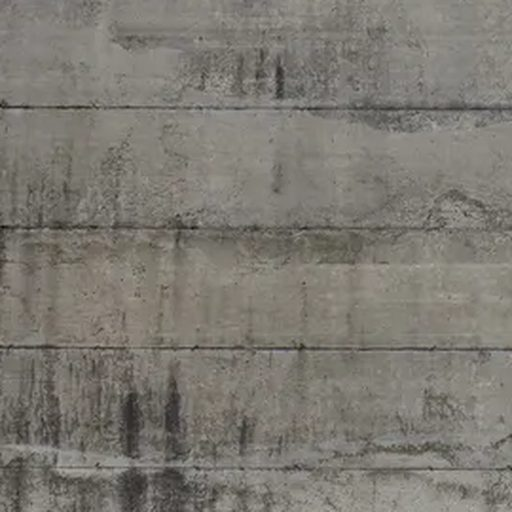
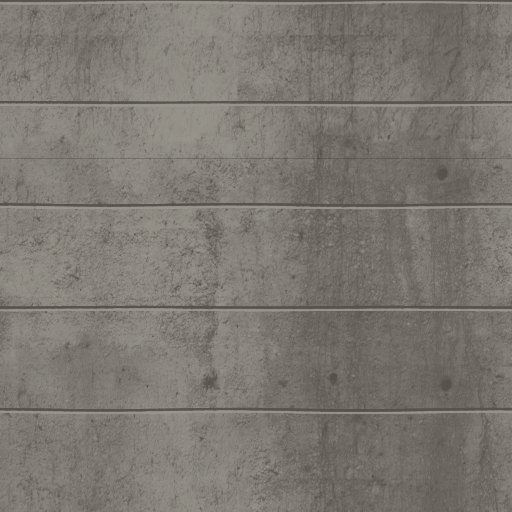
Texturen ersetzt: Beton und Boden aus CC0-Vorlagen (Poly Haven) statt Fotos unbekannter Herkunft
Die Fototexturen für Beton, Boden und Innenwände stammten aus der Vorlage-Datei ohne Herkunftsangabe. Ersetzt durch Texturen aus frei lizenzierten Vorlagen von Poly Haven (CC0, gemeinfrei):
- concrete_wall_006 (Dario Barresi, Charlotte Baglioni) als glatter Sichtbeton
- wood_textured_concrete (Dimitrios Savva) als schwache Holzmaserung der Schalung
- concrete_floor_worn_001 (Dimitrios Savva, Rico Cilliers) als Betonboden
Brettfugen dazugezeichnet, Helligkeit und Farbton an die bisherigen Texturen angeglichen; gleiche Dateinamen und Größen.
- tools/texturen.js erzeugt die Texturen (im Browser)
- Quelle [16] Poly Haven, Quelle [11] angepasst, Datenabsatz ergänzt
- README: Hinweis „Bitte vor der Veröffentlichung prüfen“ durch die Lizenzangabe ersetzt
- Cache-Version v=13

Claude-Session: https://claude.ai/code/session_01Vqac73kuQsXBmcY5kG62vk

diff --git a/index.html b/index.html
@@ -27,17 +27,17 @@
 <link rel="preload" href="assets/fonts/heros-regular.woff" as="font" type="font/woff" crossorigin>
 <link rel="preload" href="assets/fonts/pagella-bold.woff" as="font" type="font/woff" crossorigin>
 <!-- ?v= erhöhen, wenn sich CSS oder JS ändern: sonst zeigen Browser bis zu 10 Minuten lang alte Dateien -->
-<link rel="stylesheet" href="css/tokens.css?v=12">
-<link rel="stylesheet" href="css/base.css?v=12">
-<link rel="stylesheet" href="css/layout.css?v=12">
-<link rel="stylesheet" href="css/overlays.css?v=12">
+<link rel="stylesheet" href="css/tokens.css?v=13">
+<link rel="stylesheet" href="css/base.css?v=13">
+<link rel="stylesheet" href="css/layout.css?v=13">
+<link rel="stylesheet" href="css/overlays.css?v=13">
 <script type="application/ld+json">
 {"@context":"https://schema.org","@type":"WebPage","name":"La Congiunta, Giornico – interaktives 3D-Modell","inLanguage":"de",
  "about":{"@type":"Museum","name":"La Congiunta","url":"https://lacongiunta.ch/","architect":{"@type":"Person","name":"Peter Märkli"},
   "address":{"@type":"PostalAddress","addressLocality":"Giornico","addressRegion":"Tessin","addressCountry":"CH"},
   "geo":{"@type":"GeoCoordinates","latitude":46.4056231,"longitude":8.8704691}}}
 </script>
-<script src="js/loader.js?v=12" defer></script>
+<script src="js/loader.js?v=13" defer></script>
 </head>
 <body>
 <a class="skip" href="#stage">Zum 3D-Modell springen</a>
@@ -135,7 +135,7 @@
       </section>
       <section class="fsec">
       <h3>Daten und Genauigkeit</h3>
-      <p>Gelände aus den Höhenmodellen von swisstopo [7] (um das Gebäude im 3‑m‑Raster), Boden aus dem Luftbild SWISSIMAGE [7] (online lädt die Website für Dorf, Brücken und Weg feinere Kacheln mit etwa 0,2 m pro Pixel nach, ab mittlerer Qualität auch für die Umgebung), mit Feinstruktur je nach Bodenart; Häuser im Dorf entlang des Wegs (bis 200 m daneben) mit echten Grundrissen, Höhen und Dachformen aus swissBUILDINGS3D 2.0 [7], Wandfarben und Bruchsteinmauern nach Street View [10], Dachfarben aus dem Luftbild; übrige Häuser, Bahn, Straßen, Autobahnbrücken, Stromleitungen und Weinberge nach OpenStreetMap [8]. Bäume stehen dort, wo das Luftbild Baumkronen zeigt; ihre Form ist generisch. Wind und Wolken sind dargestellt, nicht gemessen: Richtung talaufwärts wie der Talwind an Sommertagen (allgemeine Wetterkunde, nicht für Giornico belegt), Wolkenform erfunden. Gebäudemaße aus Grundriss und Schnitten bei Pireddu [1], pixelgenau vermessen im Maßstab der Gesamtlänge; Gesamtlänge, Breite, Drehung (21°), Lichtgaden und Höhensprünge mit dem Gebäudemodell swissBUILDINGS3D [7] abgeglichen; lichte Raumhöhen nach [1]. Innen sind die Räume nach Peter Märkli etwa 4,6 m breit [14]; bei 5,25 m Außenbreite ergibt das Wände von rund 0,33 m. Dachaufbau, Licht, Sockel der Halbfiguren und Oblichter der Zellen nach Märklis Angaben und den Bildern im Video [14]. Innen gibt es kein direktes Sonnenlicht: Die Platten des Lichtgadens streuen das Licht, sodass kein Schatten fällt; die Helligkeit folgt Sonnenstand und Wolken. Sonnenstand für Giornico (46,41° N) mit der echten Achsdrehung und mit Bergschatten aus dem Höhenmodell; Uhrzeit = wahre Sonnenzeit [12]. In der Legende: durchgezogen = belegt, gestrichelt = angenommen.</p>
+      <p>Gelände aus den Höhenmodellen von swisstopo [7] (um das Gebäude im 3‑m‑Raster), Boden aus dem Luftbild SWISSIMAGE [7] (online lädt die Website für Dorf, Brücken und Weg feinere Kacheln mit etwa 0,2 m pro Pixel nach, ab mittlerer Qualität auch für die Umgebung), mit Feinstruktur je nach Bodenart; Häuser im Dorf entlang des Wegs (bis 200 m daneben) mit echten Grundrissen, Höhen und Dachformen aus swissBUILDINGS3D 2.0 [7], Wandfarben und Bruchsteinmauern nach Street View [10], Dachfarben aus dem Luftbild; übrige Häuser, Bahn, Straßen, Autobahnbrücken, Stromleitungen und Weinberge nach OpenStreetMap [8]. Bäume stehen dort, wo das Luftbild Baumkronen zeigt; ihre Form ist generisch. Wind und Wolken sind dargestellt, nicht gemessen: Richtung talaufwärts wie der Talwind an Sommertagen (allgemeine Wetterkunde, nicht für Giornico belegt), Wolkenform erfunden. Gebäudemaße aus Grundriss und Schnitten bei Pireddu [1], pixelgenau vermessen im Maßstab der Gesamtlänge; Gesamtlänge, Breite, Drehung (21°), Lichtgaden und Höhensprünge mit dem Gebäudemodell swissBUILDINGS3D [7] abgeglichen; lichte Raumhöhen nach [1]. Betonwände und Boden mit frei lizenzierten Texturen (CC0) [16], die Brettfugen der Schalung dazugezeichnet. Innen sind die Räume nach Peter Märkli etwa 4,6 m breit [14]; bei 5,25 m Außenbreite ergibt das Wände von rund 0,33 m. Dachaufbau, Licht, Sockel der Halbfiguren und Oblichter der Zellen nach Märklis Angaben und den Bildern im Video [14]. Innen gibt es kein direktes Sonnenlicht: Die Platten des Lichtgadens streuen das Licht, sodass kein Schatten fällt; die Helligkeit folgt Sonnenstand und Wolken. Sonnenstand für Giornico (46,41° N) mit der echten Achsdrehung und mit Bergschatten aus dem Höhenmodell; Uhrzeit = wahre Sonnenzeit [12]. In der Legende: durchgezogen = belegt, gestrichelt = angenommen.</p>
       </section>
       <section class="fsec">
       <h3>Legende</h3>
@@ -799,11 +799,12 @@
       <li>OpenStreetMap: Gebäude, Bahn, Straßen und Wege, Brücken, Stromleitungen, Weinberge, Kirchen und Gaststätten, © <a href="https://www.openstreetmap.org/copyright" target="_blank" rel="noopener">OpenStreetMap-Mitwirkende</a>, Lizenz ODbL 1.0. Abgerufen am 2.11.2026.</li>
       <li>Schweiz Tourismus: <a href="https://www.myswitzerland.com/en-us/experiences/museo-la-congiunta/" target="_blank" rel="noopener">„Museo La Congiunta“</a> (englische Fassung; drei große, miteinander verbundene Räume und vier seitliche Zellen; Skulpturen von Hans Josephsohn 1950–1990). Abgerufen am 3.11.2026.</li>
       <li>Google Maps und Street View: Fotos und Ansichten der Umgebung zur Kontrolle von Lage, Oberflächen und Dach, Verfärbungen am Beton sowie Wandfarben und Mauern im Dorf. Abgerufen am 2.11.2026.</li>
-      <li>Vorlage „La Congiunta – schematisches 3D-Modell“ (bereitgestellte HTML-Datei): Fototexturen für Beton, Boden, Innenwände und Laternenblech; Planmaße. Herkunft der Fotos dort nicht angegeben.</li>
+      <li>Vorlage „La Congiunta – schematisches 3D-Modell“ (bereitgestellte HTML-Datei): Planmaße und Fotos zum Abzählen des Trägerabstands. Die Fototexturen der Vorlage (Herkunft dort nicht angegeben) verwendet die Website nicht mehr.</li>
       <li>Technik: <a href="https://threejs.org" target="_blank" rel="noopener">three.js</a> r128 (MIT-Lizenz); Himmel nach A. J. Preetham, P. Shirley, B. Smits: „A Practical Analytic Model for Daylight“, SIGGRAPH 1999; Sonnenstand nach astronomischen Standardformeln (Deklination ±23,44°, Stundenwinkel 15° pro Stunde); Schriften TeX Gyre Heros und Pagella (GUST e-foundry, GUST Font License).</li>
       <li>Galerie Max Hetzler: <a href="https://www.maxhetzler.com/artists/hans-josephsohn" target="_blank" rel="noopener">„Hans Josephsohn“</a> (Künstlerseite: Werke in Gips geformt und in Messing gegossen, Oberflächen nur grob bearbeitet; Halbfiguren ab den 1980er Jahren; La Congiunta als „Haus für Reliefs und Halbfiguren“). Abgerufen am 3.11.2026.</li>
       <li>VernissageTV: <a href="https://www.youtube.com/watch?v=DVuXOg9W8ZM" target="_blank" rel="noopener">„Museo La Congiunta, Giornico by Peter Märkli Architect“</a>, Interview mit Peter Märkli, Zürich, 28.12.2011, zum Ehrenpreis des Velux Stiftung Tageslicht-Award 2012 (Video, 4:42; Innenbreite, Dachaufbau, Lichtgaden, Sockel der Halbfiguren, Zellen; Bilder des Innen- und Außenraums). Abgerufen am 10.11.2026.</li>
       <li>Normen für die Grundrisse: DIN 1356-1:1995-02 „Bauzeichnungen“ (Darstellung, Linienarten), DIN 406-11 (Maßeintragung), DIN EN ISO 5457 (Blattformat), DIN EN ISO 7200 (Schriftfeld), DIN EN ISO 3098 (Schrift), DIN 277 (Flächen). Die Normtexte lagen nicht vor; Linienarten, Linienbreiten und Maßeintragung nach dem Lehrskript <a href="https://epub.sub.uni-hamburg.de/epub/volltexte/2010/4886/pdf/Bauzeichnen_I.pdf" target="_blank" rel="noopener">„Bauzeichnen I“</a> (Universität Hamburg). Abgerufen am 10.11.2026.</li>
+      <li>Poly Haven: Texturen <a href="https://polyhaven.com/a/concrete_wall_006" target="_blank" rel="noopener">„Concrete Wall 006“</a> (Dario Barresi, Charlotte Baglioni), <a href="https://polyhaven.com/a/wood_textured_concrete" target="_blank" rel="noopener">„Wood Textured Concrete“</a> (Dimitrios Savva) und <a href="https://polyhaven.com/a/concrete_floor_worn_001" target="_blank" rel="noopener">„Concrete Floor Worn 001“</a> (Dimitrios Savva, Rico Cilliers), Lizenz CC0, gemeinfrei (<a href="https://polyhaven.com/license" target="_blank" rel="noopener">polyhaven.com/license</a>). Daraus die Texturen für Betonwände, Innenwände und Boden: Holzmaserung schwach, Brettfugen gezeichnet, Helligkeit angeglichen (tools/texturen.js). Abgerufen am 11.11.2026.</li>
     </ol>
   </details>
 </footer>

diff --git a/tools/texturen.js b/tools/texturen.js
@@ -1,0 +1,66 @@
+/* Texturen für Beton, Boden und Innenwände aus frei lizenzierten Vorlagen (CC0, Poly Haven), im Browser erzeugt.
+   Vorlagen (je 1k-JPG „Diffuse“ von dl.polyhaven.org, Lizenz CC0, https://polyhaven.com/license):
+     concrete_wall_006 (Dario Barresi, Charlotte Baglioni)  – glatter Sichtbeton als Grund
+     wood_textured_concrete (Dimitrios Savva)              – Holzmaserung der Schalung, nur schwach, 90° gedreht (Bretter waagrecht)
+     concrete_floor_worn_001 (Dimitrios Savva, Rico Cilliers) – Betonboden
+   Dazu gezeichnet: Brettfugen (dunkle Kante, heller Grat, leicht wellig) und Bretter mit leicht verschiedener Helligkeit.
+   Helligkeit und Farbton sind an die bisherigen Texturen angeglichen, damit das Licht im Modell gleich bleibt.
+   Aufruf in einer Seite ohne strenge CSP, z. B. auf der eigenen Website: await laTexturen() liefert {A, B, I, F} als JPEG-Blobs
+   (A, B = assets/img/tex-concrete-a/-b.jpg, I = tex-interior-wall.jpg, F = tex-floor.jpg). */
+async function laTexturen() {
+  var PH = 'https://dl.polyhaven.org/file/ph-assets/Textures/jpg/1k/';
+  function load(id) {
+    return new Promise(function (res, rej) {
+      var i = new Image(); i.crossOrigin = 'anonymous'; i.onload = function () { res(i); }; i.onerror = rej;
+      i.src = PH + id + '/' + id + '_diff_1k.jpg';
+    });
+  }
+  var IMG = { wall: await load('concrete_wall_006'), wood: await load('wood_textured_concrete'), floor: await load('concrete_floor_worn_001') };
+  function cv(w, h) { var c = document.createElement('canvas'); c.width = w; c.height = h; return c; }
+  function rot(im, deg) { var c = cv(im.width, im.height), x = c.getContext('2d'); x.translate(c.width / 2, c.height / 2); x.rotate(deg * Math.PI / 180); x.drawImage(im, -im.width / 2, -im.height / 2); return c; }
+  /* die Vorlagen sind nahtlos: nx × ny Wiederholungen mit Versatz (Anteil der Kachel) */
+  function tileInto(x, src, w, h, nx, ny, ox, oy) { var tw = w / nx, th = h / ny; for (var i = -1; i <= nx; i++) for (var j = -1; j <= ny; j++) x.drawImage(src, (i + ox) * tw, (j + oy) * th, tw, th); }
+  /* Angleichung an Mittelwert und Streuung der bisherigen Texturen: Median und Perzentile, Ausreißer weich begrenzt, Leuchtdichte treibt alle Kanäle */
+  function match(c, t, hi, lo) {
+    var x = c.getContext('2d'), d = x.getImageData(0, 0, c.width, c.height), p = d.data, n = p.length / 4, L = new Float32Array(n), i, k;
+    for (i = 0; i < n; i++) L[i] = 0.2126 * p[4 * i] + 0.7152 * p[4 * i + 1] + 0.0722 * p[4 * i + 2];
+    var s = Float32Array.from(L).sort(), q = function (f) { return s[Math.floor(f * (n - 1))]; }, med = q(0.5), sg = (q(0.84) - q(0.16)) / 2;
+    for (i = 0; i < n; i++) {
+      var z = (L[i] - med) / sg; z = z > 0 ? hi * Math.tanh(z / hi) : -lo * Math.tanh(-z / lo);
+      for (k = 0; k < 3; k++) p[4 * i + k] = Math.max(0, Math.min(255, t[0][k] + z * t[1][k]));
+    }
+    x.putImageData(d, 0, 0); return c;
+  }
+  function rnd(s) { return function () { s |= 0; s = s + 0x6D2B79F5 | 0; var t = Math.imul(s ^ s >>> 15, 1 | s); t = t + Math.imul(t ^ t >>> 7, 61 | t) ^ t; return ((t ^ t >>> 14) >>> 0) / 4294967296; }; }
+  var woodSoft = (function () { var r = rot(IMG.wood, 90), c = cv(512, 512), x = c.getContext('2d'); x.filter = 'blur(1.2px)'; x.drawImage(r, 0, 0, 512, 512); return c; })();
+  /* Schalungsbeton: ny Kacheln senkrecht, je „boards“ Bretter; grain = Anteil der Maserung, jA = Stärke der Fugen */
+  function board(w, h, ny, boards, ox, oy, grain, seed, jA) {
+    var c = cv(w, h), x = c.getContext('2d'), r = rnd(seed); x.imageSmoothingQuality = 'high';
+    tileInto(x, IMG.wall, w, h, 1, ny, ox, oy);
+    x.globalCompositeOperation = 'overlay'; x.globalAlpha = grain; tileInto(x, woodSoft, w, h, 1, ny, ox * 0.7, oy * 0.3);
+    x.globalCompositeOperation = 'source-over';
+    var nb = ny * boards, bh = h / nb, lw = Math.max(1.2, h / ny / 512 * 2.2);
+    for (var b = 0; b < nb; b++) {
+      var v = (r() - 0.5) * 0.12; x.globalAlpha = Math.abs(v); x.fillStyle = v > 0 ? '#fff' : '#000'; x.fillRect(0, b * bh, w, bh);
+      var a1 = (r() - 0.5) * 1.4, ph = r() * 6.283, y0 = b * bh, u, y;
+      x.globalAlpha = jA; x.strokeStyle = '#000'; x.lineWidth = lw; x.beginPath();
+      for (u = 0; u <= w; u += 4) { y = y0 + a1 * Math.sin(u / w * 6.283 * 2 + ph); if (u) x.lineTo(u, y); else x.moveTo(u, y); }
+      x.stroke();
+      x.globalAlpha = jA * 0.4; x.strokeStyle = '#fff'; x.lineWidth = lw * 0.8; x.beginPath();
+      for (u = 0; u <= w; u += 4) { y = y0 + lw * 1.3 + a1 * Math.sin(u / w * 6.283 * 2 + ph); if (u) x.lineTo(u, y); else x.moveTo(u, y); }
+      x.stroke();
+    }
+    x.globalAlpha = 1; return c;
+  }
+  function floorTex() { var c = cv(512, 512), x = c.getContext('2d'); x.imageSmoothingQuality = 'high'; tileInto(x, IMG.floor, 512, 512, 1, 1, 0, 0); return c; }
+  var out = {
+    A: match(board(512, 512, 1, 5, 0, 0, 0.12, 11, 0.6), [[126.2, 124.6, 120.5], [17.7, 17.5, 17.7]], 1.8, 2.6),
+    B: match(board(512, 512, 1, 5, 0.5, 0.31, 0.12, 23, 0.6), [[124.6, 121.2, 113.8], [15.2, 15.3, 15.1]], 1.8, 2.6),
+    I: match(board(256, 448, 2, 4, 0.25, 0, 0.1, 37, 0.5), [[166, 165, 158], [8, 8.5, 9.5]], 1.6, 2.4),
+    F: match(floorTex(), [[176.8, 166.8, 158.3], [13.9, 13.8, 14.8]], 1.5, 2.2)
+  };
+  var res = {};
+  for (var key in out) res[key] = await new Promise(function (r) { out[key].toBlob(r, 'image/jpeg', 0.86); });
+  return res;
+}
+if (typeof module !== 'undefined' && module.exports) module.exports = laTexturen;

diff --git a/README.md b/README.md
@@ -74,6 +74,7 @@ assets/fonts/         TeX Gyre Heros und Pagella (GUST Font License)
 assets/plans/         Grundrisse als SVG (Blatt A3, M 1:200), gezeichnet von Claude (KI)
 tools/build_standalone.py   baut alles zu einer einzigen HTML-Datei zusammen
 tools/grundrisse.js   zeichnet die Grundrisse (SVG) aus den Modellmaßen: node tools/grundrisse.js assets/plans/la-congiunta-grundrisse.svg
+tools/texturen.js     erzeugt die Beton- und Bodentexturen aus CC0-Vorlagen (im Browser)
 ```
 
 Die App-Dateien teilen sich einen gemeinsamen Bereich (wie früher innerhalb einer Funktion) und laufen in der Reihenfolge, die `js/loader.js` in `APP` festlegt. Eine neue Datei wird dort an der passenden Stelle eingetragen.
@@ -153,7 +154,7 @@ Die vollständige Quellenliste steht in der Seite unter „Quellen“. Wichtig f
 - three.js: MIT-Lizenz.
 - Schriften TeX Gyre Heros und Pagella: GUST Font License (siehe `assets/fonts/`).
 - Pläne und Angaben nach A. Pireddu, „Peter Märkli – La Congiunta“, *Firenze Architettura* 29 (2025), doi:10.36253/FiA-16824 (CC BY-SA 4.0); im Modell nur zitiert und nachgezeichnet.
-- **Bitte vor der Veröffentlichung prüfen:** Die Fototexturen für Beton, Boden und Innenwände stammen aus der Vorlage-Datei „La Congiunta – schematisches 3D-Modell“; ihre Herkunft ist dort nicht angegeben. Vor einer öffentlichen Website sollten die Rechte daran geklärt oder die Texturen durch eigene Fotos bzw. frei lizenzierte (z. B. CC0) Texturen ersetzt werden.
+- Texturen für Betonwände, Innenwände und Boden: aus frei lizenzierten Vorlagen von Poly Haven (CC0, gemeinfrei, keine Namensnennung nötig; „Concrete Wall 006“ von Dario Barresi und Charlotte Baglioni, „Wood Textured Concrete“ von Dimitrios Savva, „Concrete Floor Worn 001“ von Dimitrios Savva und Rico Cilliers), die Brettfugen dazugezeichnet, erzeugt mit `tools/texturen.js`. Die früheren Fototexturen aus der Vorlage-Datei, deren Herkunft unbekannt war, sind nicht mehr enthalten.
 - Die Werke von Hans Josephsohn sind urheberrechtlich geschützt. Das Modell zeigt keine Abbilder einzelner Werke, sondern frei nachempfundene, prozedural erzeugte Formen in Anzahl und Anordnung nach den Quellen.
 
 Für den eigenen Code des Modells ist keine Lizenz festgelegt; wer ihn anderen zur Nutzung freigeben möchte, ergänzt eine Lizenzdatei (zum Beispiel MIT).
